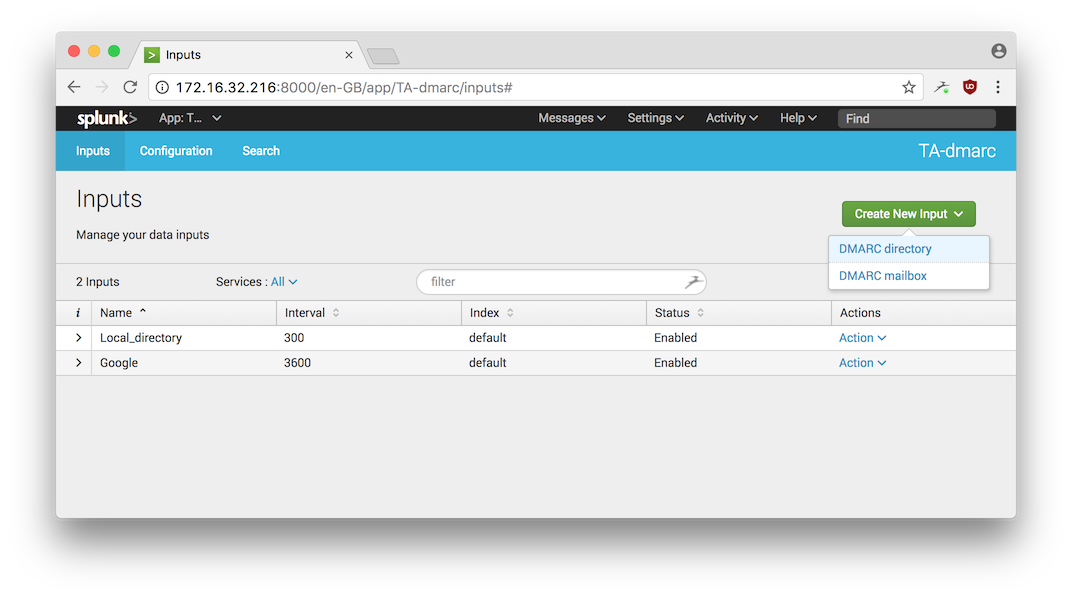
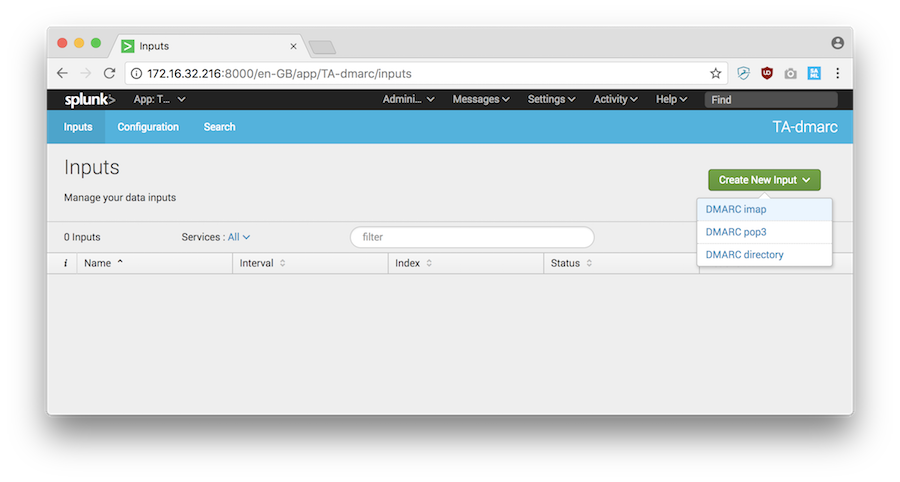
Additions for 3.0.0 release

Changed region(s): [[0.0311, 0.0622, 0.9644, 0.6224], [0.0622, 0.8402, 0.9333, 0.8714]]

diff --git a/bin/dmarc/pop2dir.py b/bin/dmarc/pop2dir.py
@@ -118,12 +118,16 @@ class Pop2Dir:
             sigheaders = [(x,y) for x,y in obj.headers if x.lower() == b"dkim-signature"]
             self.helper.log_debug('dkim_verify: msg uid %s has %d DKIM signatures' % (uid, len(sigheaders)))
             for i in range(0, len(sigheaders)):
-                res = obj.verify(i)
-                if res:
-                    self.helper.log_debug('dkim_verify: msg uid %s signature %d ok from domain %s selector %s' % (uid, i, obj.domain, obj.selector))
+                try:
+                    res = obj.verify(i)
+                except Exception, e:
+                    self.helper.log_info('dkim_verify: exception verifying msg uid %s with %s' % (uid, str(e)))
                 else:
-                    self.helper.log_debug('dkim_verify: msg uid %s signature %d fail from domain %s selector %s' % (uid, i, obj.domain, obj.selector))
-        
+                    if res:
+                        self.helper.log_debug('dkim_verify: msg uid %s signature %d ok from domain %s selector %s' % (uid, i, obj.domain, obj.selector))
+                    else:
+                        self.helper.log_debug('dkim_verify: msg uid %s signature %d fail from domain %s selector %s' % (uid, i, obj.domain, obj.selector))
+
 
     def save_reports_from_message_bodies(self, response):
         """ Find xml, zip and gzip attachments in the response, and write them to disk 

diff --git a/bin/dmarc/imap2dir.py b/bin/dmarc/imap2dir.py
@@ -113,11 +113,15 @@ class Imap2Dir:
             sigheaders = [(x,y) for x,y in obj.headers if x.lower() == b"dkim-signature"]
             self.helper.log_debug('dkim_verify: msg uid %s has %d DKIM signatures' % (uid, len(sigheaders)))
             for i in range(0, len(sigheaders)):
-                res = obj.verify(i)
-                if res:
-                    self.helper.log_debug('dkim_verify: msg uid %s signature %d ok from domain %s selector %s' % (uid, i, obj.domain, obj.selector))
+                try:
+                    res = obj.verify(i)
+                except Exception, e:
+                    self.helper.log_info('dkim_verify: exception verifying msg uid %s with %s' % (uid, str(e)))
                 else:
-                    self.helper.log_debug('dkim_verify: msg uid %s signature %d fail from domain %s selector %s' % (uid, i, obj.domain, obj.selector))
+                    if res:
+                        self.helper.log_debug('dkim_verify: msg uid %s signature %d ok from domain %s selector %s' % (uid, i, obj.domain, obj.selector))
+                    else:
+                        self.helper.log_debug('dkim_verify: msg uid %s signature %d fail from domain %s selector %s' % (uid, i, obj.domain, obj.selector))
         
 
     def save_reports_from_message_bodies(self, response):

diff --git a/README.md b/README.md
@@ -18,21 +18,29 @@ an IMAP/POP3 mailbox or local directory with mitigations against:
 | 6.5            | Yes   | Yes
 | 6.6            | Yes   | Yes
 | 7.0            | Yes   | Yes
+| 7.1            | Yes   | Yes
 
 Additional requirements:
 
 * Splunk heavy forwarder instance: Because of Python dependencies Splunk Universal Forwarder is not supported
 * KVstore: used to keep track of which IMAP messages or local files have already been processed. KVstore is enabled by default on Splunk instances.
 
-## Principles
+## Upgrading from previous versions
 
-We use the following guidelines for developing this add-on:
+### From 2.x to 3.x
 
-| Principle | Rationale | Implication
-|----------------|-------|---------
-| Data is left intact | This add-on only performs data collection. Other apps may perform data aggregation and visualisation based on the output of this add-on and require intact data | We don't interpret, alter or omit values. For example we leave the invalid domain AOL uses "not.evaluated" to denote the inability to perform a DKIM check.
-| Structure is left intact | DMARC XML is an hierarchical format | We use JSON output. Key=value output will be deprecated in future versions.
-| Data is enriched where appropriate | New fields can be added to provide better context or offer normalization of the existing data | XSD validation results and DNS resolutions are are added as additional fields. Compliance with CIM authentication datamodel too.
+The event output format changed to JSON. This is the new default because JSON is a better match for the structured aggregate reports than a flat key=value (KV) format. See for example issue #4 on Github. If you want your inputs to to keep using the KV format:
+
+- Disable your inputs before upgrading
+- Upgrade the add-on to version 3.x
+- Edit your inputs and change the output format to KV
+- Enable your inputs
+
+Note that KV format output is likely to be deprecated in future versions, and enhancements like multiple XSD validation aren't available in KV output format.
+
+### From 1.x to 2.x
+
+Because of changes to KVstore logic, the add-on will re-index every report on IMAP, leading to duplicate events.
 
 ## Install the TA-dmarc add-on for Splunk
 
@@ -60,7 +68,88 @@ The following table lists support for distributed deployment roles in a Splunk d
 
 ## Configure TA-dmarc add-on for Splunk
 
+Steps:
+
+1. Add an account
+2. Add an input
+
+If you're using this add-on from a disconnected network, you can skip account creation and create a new directory based input.
+This assumes you have an offline method for getting DMARC attachments to this directory.
+
+### Add an account
+
+In the Configuration tab, create a new account:
+
+* Account Name: descriptive account name, e.g. google_dmarc_mailbox
+* Username: the account to identify with
+* Password: the password to authenticate with
+
+![Create global account](appserver/static/screenshot_create_global_account.png)
+
+### Add an input
+
+This add-on can ingest DMARC aggregate reports from:
+
+* IMAP mailboxes
+* POP mailboxes
+* Local directories (for offline environments)
+
 ![Screenshot create new input](appserver/static/screenshot.png)
+
+### DMARC imap/pop input
+
+Go to the add-on's input tab and configure a new modular input by clicking on the "Inputs" menu:
+
+![Screenshot create new input](appserver/static/screenshot_imap.png)
+
+* Click "Create new input"
+* Select "DMARC imap" or "DMARC pop3"
+* Configure:
+   * Name: e.g. dmarc-google
+   * Interval: how often to poll the mailserver for aggregate reports.
+   * Index: what Splunk index to send the aggregate reports to
+   * Global Account: select the account to authenticate with
+   * IMAP server: the imap server to poll
+   * Resolve IP: Whether or not to resolve the row source_ip in the DMARC XML aggregate reports
+   * Validate XML: Whether or not to validate the DMARC XML against the DMARC XSD
+   * Validate DKIM: Whether or not to validate the DKIM signature(s) in the mail
+   * IMAP mailbox: Select the specific IMAP mailbox folder to poll. Default: INBOX
+   * Output format: Send events to Splunk in JSON format (default) or key=value (left for compatibility reasons)
+
+
+TA-dmarc can fetch DMARC aggregate reports from an IMAP or POP3 server.  It will look for:
+
+1. messages with "Report domain:" in the subject.
+2. attachments with .xml, .zip or xml.gz file extentions
+3. attachments with mime-types:
+    - application/zip
+    - application/gzip
+    - application/x-gzip
+    - application/xml
+    - text/xml
+    - application-x-gzip (Non-standard mimetype used for Comcast DMARC reports)
+    - application/x-zip-compressed (Non-standard mimetype used for Yahoo DMARC reports)
+
+The add-on doesn't modify, move or delete messages on the IMAP server but insteads keeps a record in the Splunk KV-store of which mails have already been read.
+
+#### Resolve IP setting
+
+DMARC XML aggregate reports contain a `source_ip` that can be reverse resolved at index time. This is the default but can cause considerable delay in processing aggregate reports due to unreachable nameservers.
+Second, because the reverse DNS record cannot really be trusted, another forward lookup is performed. Only if the reverse and forward lookup match, the result is included in the output.
+
+#### Validate XML setting
+
+DMARC XML aggregate reports can be validated against multiple DMARC RUA XML schema definition versions (XSD):
+
+- The XSD from draft-dmarc-base-00-02 (march 2012)
+- The XSD from RFC7489 (march 2015)
+- A custom relaxed XSD that should succesfully verify RFC7489-based reporters and pre-RFC7489 reporters
+
+The result of the validations is added as new event fields in Splunk: `vendor_rua_xsd_validations`
+
+#### Validate DKIM setting
+
+DKIM signatures from email messages can be verified. Currently the results of this validation are only available in debug log. Future versions will add a new event field in Splunk.
 
 ### Directory input
 
@@ -85,56 +174,6 @@ TA-dmarc doesn't modify, move or delete files in the directory: it uses internal
    * Validate XML: Whether or not to validate the DMARC XML against the DMARC XSD
 4. Click add
 
-### Mailbox input
-
-TA-dmarc can fetch DMARC aggregate reports from an IMAP or POP3 server.  It will look for:
-
-1. messages with "Report domain:" in the subject.
-2. attachments with .xml, .zip or xml.gz file extentions
-3. attachments with mime-types:
-    - application/zip
-    - application/gzip
-    - application/x-gzip
-    - application/xml
-    - text/xml
-    - application-x-gzip (Non-standard mimetype used for Comcast DMARC reports)
-    - application/x-zip-compressed (Non-standard mimetype used for Yahoo DMARC reports)
-
-The add-on doesn't modify, move or delete messages on the IMAP server but insteads keeps a record in the Splunk KV-store of which mails have already been read.
-
-1. First, go to the add-on's configuration tab and configure an account to authenticate with:
-   * Account Name: descriptive account name, e.g. google_dmarc_mailbox
-   * Username: the account to identify with
-   * Password: the password to authenticate with
-2. Next, go to the add-on's input tab and configure a new modular input by clicking on the "Inputs" menu.
-2. Click "Create new input"
-3. Select "DMARC imap" or "DMARC pop3"
-4. Configure:
-   * Name: e.g. dmarc-google
-   * Interval: how often to poll the mailserver for aggregate reports.
-   * Index: what Splunk index to send the aggregate reports to
-   * Global Account: select the account to authenticate with
-   * IMAP server: the imap server to poll
-   * Resolve IP: Whether or not to resolve the row source_ip in the DMARC XML aggregate reports
-   * Validate XML: Whether or not to validate the DMARC XML against the DMARC XSD
-   * IMAP mailbox: Select the specific IMAP mailbox folder to poll. Default: INBOX
-
-![Create global account](appserver/static/screenshot_create_global_account.png)
-
-### Resolve IP setting
-
-DMARC XML aggregate reports contain a `source_ip` that can be reverse resolved at index time. This is the default but can cause considerable delay in processing aggregate reports due to unreachable nameservers.
-Second, because the reverse DNS record cannot really be trusted, another forward lookup is performed. Only if the reverse and forward lookup match, the result is included in the output.
-
-### Validate XML setting
-
-DMARC XML aggregate reports can be validated against multiple DMARC RUA XML schema definition versions (XSD)
-This can be configured in the input with the checkbox "Validate XML"
-The result of the validations is added as new event fields in Splunk: `vendor_rua_xsd_validations`
-
-### Validate DKIM setting
-
-DKIM signatures from email messages can be verified. Currently the results of this validation are only available in debug log. Future versions will add a new event field in Splunk.
 
 ## DMARC aggregate reports
 
@@ -250,6 +289,7 @@ From the DMARC XML sample above, the following fields are created:
 |vendor_rua_xsd_validations. rua_rfc7489.xsd.info                   | Element 'report_metadata': This element is not expected. Expected is ( version )., line 3	 | Add-on enrichment
 |vendor_rua_xsd_validations. rua_ta_dmarc_relaxed_v01.xsd.result    | pass   | Add-on enrichment
 
+
 ## Advanced
 
 ### Checkpointing
@@ -275,9 +315,19 @@ If you want to reindex a single DMARC report, you can do so by deleting its corr
 
 Reindexing a DMARC report from a directory input is left as an excercise for the reader.
 
+## Principles
+
+We use the following guidelines for developing this add-on:
+
+| Principle | Rationale | Implication
+|----------------|-------|---------
+| Data is left intact | This add-on only performs data collection. Other apps may perform data aggregation and visualisation based on the output of this add-on and require intact data | We don't interpret, alter or omit values. For example we leave the invalid domain AOL uses "not.evaluated" to denote the inability to perform a DKIM check.
+| Structure is left intact | DMARC XML is an hierarchical format | We use JSON output. Key=value output will be deprecated in future versions.
+| Data is enriched where appropriate | New fields can be added to provide better context or offer normalization of the existing data | XSD validation results and DNS resolutions are are added as additional fields. Compliance with CIM authentication datamodel too.
+
 ## Contributers
 
-These people and organisations have contributed pull requests, issues, ideas or otherwise spent time improving this add-on:
+This add-on is maintained by Jorrit Folmer. These people and organisations have contributed pull requests, issues, ideas or otherwise spent time improving this add-on:
 
 - Steve Myers (stmyers)
 - John (john-9c54a80b)

diff --git a/CHANGELOG.md b/CHANGELOG.md
@@ -6,6 +6,7 @@
 - Added initial DKIM signature checking
 - Added support for zip files containing files like "aol com 12345 12355 xml"
 - Moved JSON and KV output into a pulldown instead of seperate inputs
+- Fixed timeout exceptions with some DKIM verifications
 
 ## 2.6.1
 
